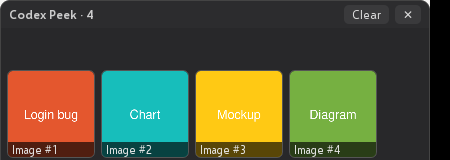
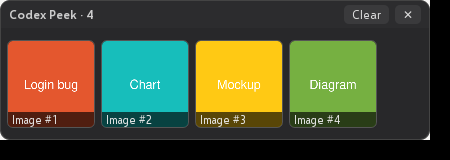
README: centered inline demo (GIF of real Codex run linked to MP4, video tag), refresh screenshot and demo.gif

diff --git a/README.md b/README.md
@@ -6,11 +6,20 @@ Codex's TUI shows pasted images only as `[Image #1]`, `[Image #2]`… placeholde
 
 [中文说明](README.zh-CN.md)
 
-![screenshot](docs/screenshot.png)
+<p align="center">
+  <a href="docs/demo-real-codex.mp4"><img src="docs/demo-real-codex.gif" width="900" alt="codex-peek with the real Codex CLI"></a>
+  <br><sub>Real Codex CLI 0.162.1 TUI: window opens with the session, 3× Ctrl+V, enlarge, Clear, closes on /quit · <a href="docs/demo-real-codex.mp4">MP4 (28 s)</a></sub>
+</p>
 
-![demo](docs/demo.gif)
+<p align="center">
+  <video src="https://raw.githubusercontent.com/hucheng91/codex-peek/main/docs/demo-real-codex.mp4" controls muted width="900"></video>
+</p>
 
-▶ **[Video: codex-peek with the real Codex CLI 0.162.1 TUI](docs/demo-real-codex.mp4)** (28 s). It shows the window opening when the session starts, three Ctrl+V pastes, enlarge, Clear, and the window closing on `/quit`.
+<p align="center">
+  <img src="docs/screenshot.png" width="450" alt="codex-peek screenshot">
+  &nbsp;
+  <img src="docs/demo.gif" width="450" alt="codex-peek demo">
+</p>
 
 - Native OS webview (WKWebView on macOS, WebView2 on Windows, WebKitGTK on Linux) via [wry](https://github.com/tauri-apps/wry) + [tao](https://github.com/tauri-apps/tao). No Electron; the binary is **about 0.8 MB** (Linux x64 release build, measured), and macOS/Windows builds are in the same range (see the CI "Binary size" step).
 - Numbered thumbnails (`Image #1..N`) in arrival order; click to enlarge, click again to go back.

diff --git a/README.zh-CN.md b/README.zh-CN.md
@@ -6,11 +6,20 @@ Codex 的终端界面里，粘贴的图片只显示成 `[Image #1]`、`[Image #2
 
 [English](README.md)
 
-![截图](docs/screenshot.png)
+<p align="center">
+  <a href="docs/demo-real-codex.mp4"><img src="docs/demo-real-codex.gif" width="900" alt="codex-peek 与真实 Codex CLI"></a>
+  <br><sub>真实 Codex CLI 0.162.1：会话开始自动打开窗口，3 次 Ctrl+V，放大，清空，/quit 后自动关闭 · <a href="docs/demo-real-codex.mp4">MP4（28 秒）</a></sub>
+</p>
 
-![演示](docs/demo.gif)
+<p align="center">
+  <video src="https://raw.githubusercontent.com/hucheng91/codex-peek/main/docs/demo-real-codex.mp4" controls muted width="900"></video>
+</p>
 
-▶ **[视频：与真实 Codex CLI 0.162.1 配合使用](docs/demo-real-codex.mp4)**
+<p align="center">
+  <img src="docs/screenshot.png" width="450" alt="codex-peek 截图">
+  &nbsp;
+  <img src="docs/demo.gif" width="450" alt="codex-peek 演示">
+</p>
 
 - 使用系统自带的 WebView（macOS 用 WKWebView，Windows 用 WebView2，Linux 用 WebKitGTK），基于 wry + tao。不用 Electron，Linux x64 实测二进制约 **0.8 MB**。
 - 缩略图按出现顺序编号 `Image #1..N`，点击放大，再点一次返回。
